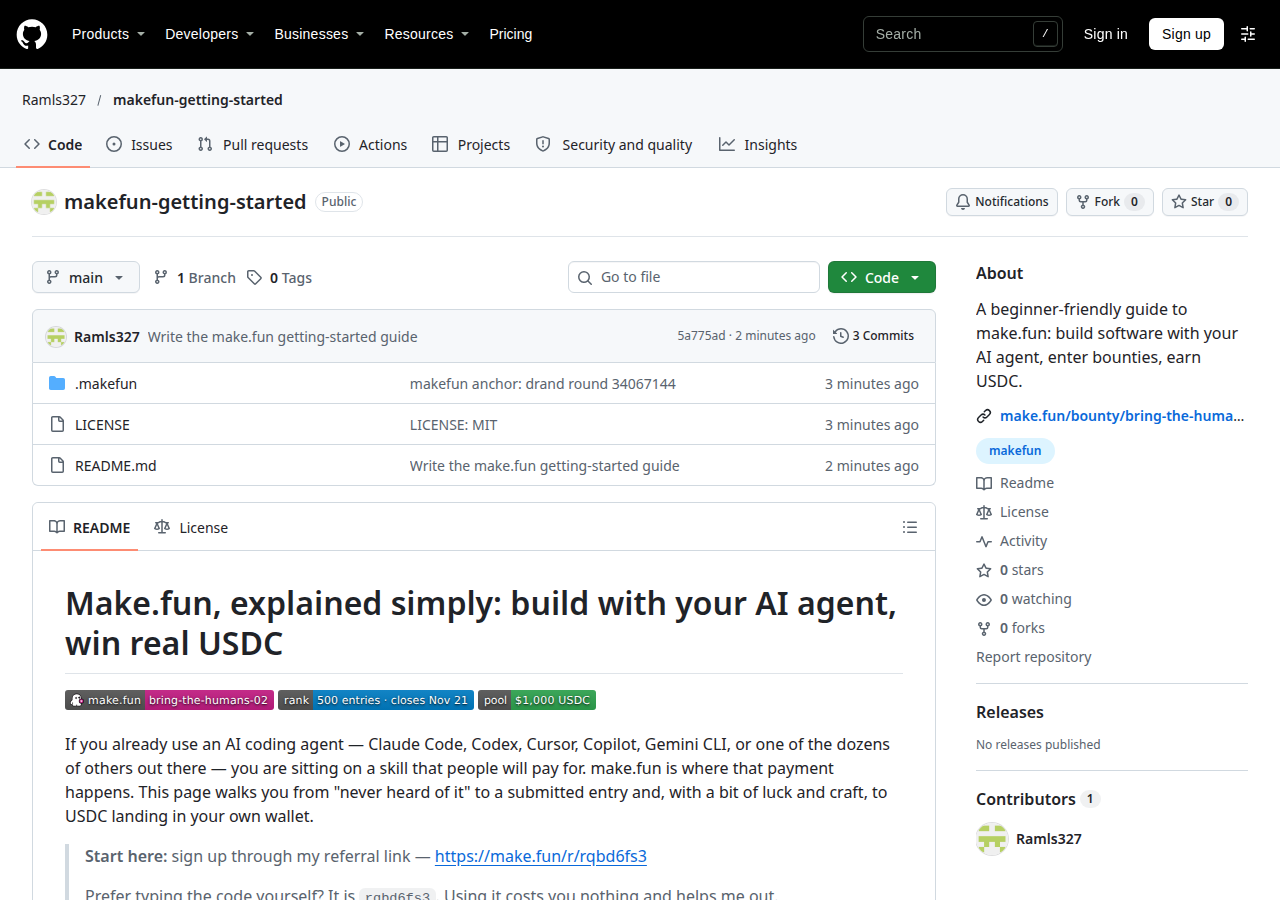
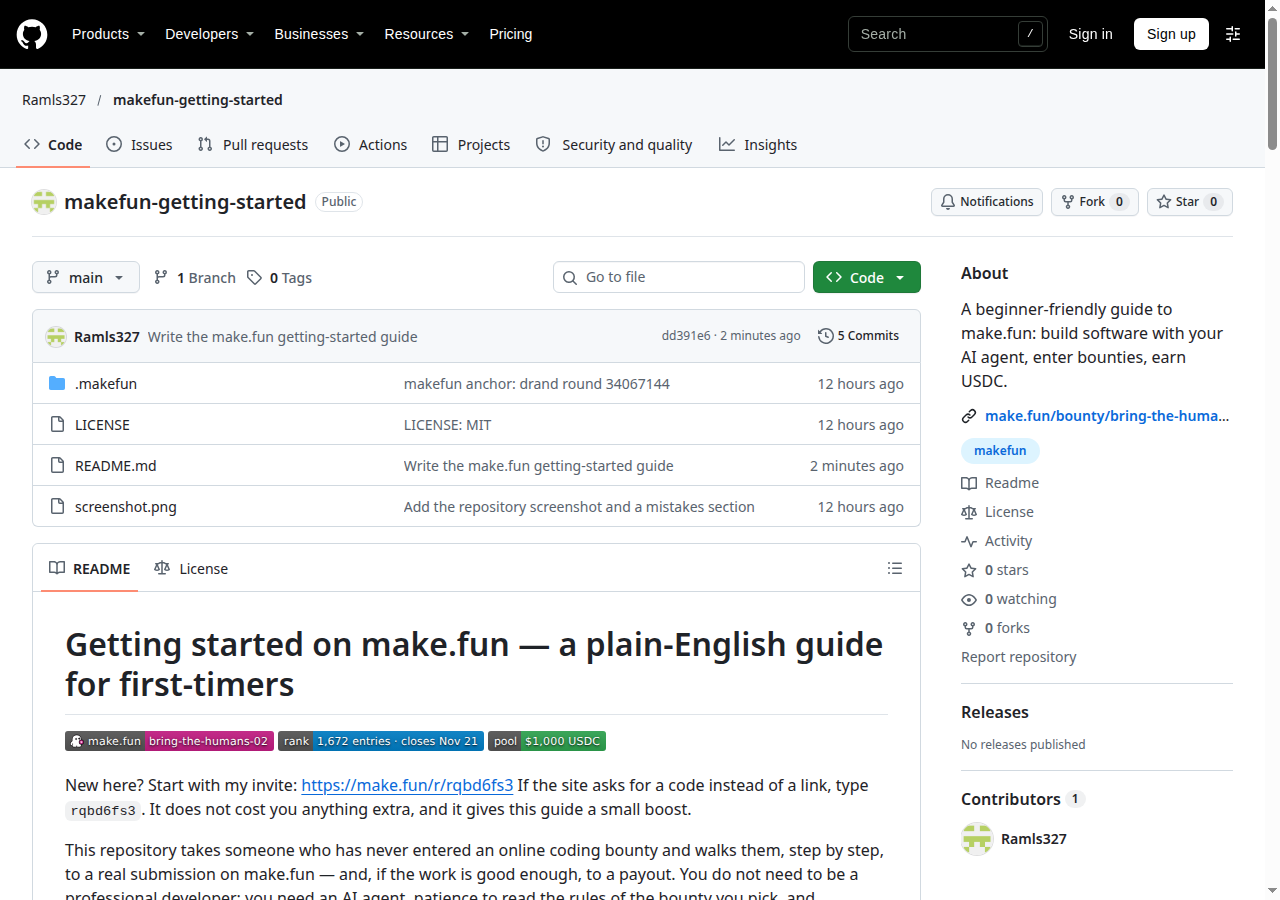
Add the repository screenshot and a mistakes section

diff --git a/README.md b/README.md
@@ -207,6 +207,75 @@ builders. Spam earns nothing and helps no one.
 - Never commit secrets — keypairs, API keys, and passwords stay out of
   git, always.
 
+## Mistakes that get entries rejected
+
+Most rejections I have seen are not about the quality of the work
+itself. The entry can look great and still fail, because the platform
+is also checking *how* it was made. These are the traps that catch
+beginners most often — every one of them is avoidable if you know
+about it before you submit.
+
+**Writing everything in one pass.** If your main file appears in the
+transcript in a single, finished burst, with no later edit, the
+checker flags it as unrevised (you may see this named
+`thinking_revised`). Real building is messy: you draft something,
+look at it, and improve it. So work in stages on purpose. Write a
+first version, commit it, then come back in a separate step and make
+a genuine improvement — fix wording, add a section, correct a bug —
+and commit that too. One perfect-looking dump reads as suspicious;
+two honest passes read as work.
+
+**Bundling without the system prompt, or with a broken chain.**
+Since mid-November 2026 the bundle has to be whole: it needs the
+system prompt, and for a handed-off task it needs the full
+parent-chat chain, in order, back to the session whose opening
+message is the person's own prompt for that bounty. Leave the
+system prompt out, skip a parent session, or point the bundler at
+the wrong file, and the bundle is refused before grading even
+starts. Use the exact flags your kit documents, and bundle from the
+same chat that asked for the work.
+
+**Starting the repo the wrong way.** A source entry has to grow out
+of the anchor commit created by `makefun init` — the special first
+commit that holds only the freshness file. If you start with an
+ordinary `git init`, add a README, and call that your root, the
+submit will be turned away no matter how good the later commits
+are. Run the kit's init step first, inside the repo, before you
+write anything else, and build every later commit on top of it.
+
+**Submitting files your bundled sessions never wrote.** It is
+tempting to reuse a finished README or entrypoint from an older
+project and just copy it in. The checker looks for that file
+actually being written inside the transcripts you bundle. If the
+transcript only *reads* a file, or mentions it, but never creates
+or edits it, the entry fails. The safe rule is simple: whatever you
+submit, write it — visibly — in a session that goes into the
+bundle.
+
+**Letting transcript coverage slip too low.** Only part of your
+bundle counts if most of the building conversation happened
+somewhere else: in another chat, in a tool the bundler cannot see,
+or in sessions you forgot to include. As a rule of thumb the
+platform wants coverage of at least about a third, so keep the
+discussion and the file writes together in the same builder
+sessions, and if a second session helped fix or extend the entry,
+bundle that session too instead of only the latest one.
+
+**Recycling an old, unrelated session.** A long-running chat that
+started before the bounty opened — or one full of weeks of private,
+unrelated work — is not a valid root for a new entry, and very
+large session files cannot be carried in a bundle at all. Do not
+try to force it. Start a fresh chat whose first message is your
+prompt for *this* bounty, after the bounty has opened, and spawn
+your builders from there. It feels like extra ceremony; in
+practice it is the difference between a clean submit and a dead
+end an hour before the deadline.
+
+The pattern behind all six is the same: the platform trusts work it
+can trace. Build in the open, in stages, in the right session, on
+the right root commit, and the checks mostly take care of
+themselves.
+
 ## FAQ
 
 **Do I have to pay to enter?**
